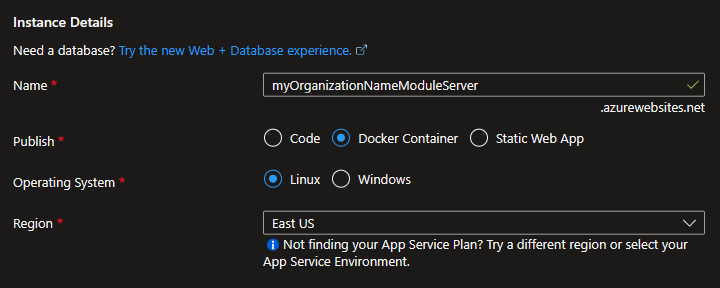
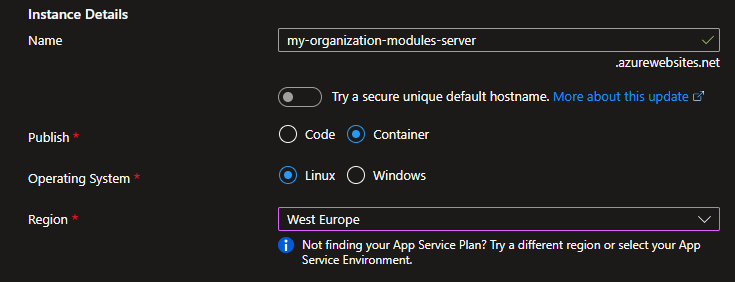
Update module server how-to

diff --git a/articles/tools/module-server/module-server.md b/articles/tools/module-server/module-server.md
@@ -72,49 +72,75 @@ Here is a simple guide on creating an Azure App Service which runs the Module Se
 
 ### Create the Azure resources
 
-1. Type **app services** in the search. Under **Services**, select **App Services**.
+- Type **app services** in the search. Under **Services**, select **App Services**.
+
   ![search box](images/search-box.png)
-1. In the **App Services** page, select **+ Create** and then select the **+ Web App** option.
+
+- In the **App Services** page, select **+ Create** and then select the **+ Web App** option.
+
   ![create web app](images/app-services-create-web-app.png)
-1. In the **Basics** tab, under **Project details**, ensure the correct subscription is selected and then select to Create new resource group. Type `intentArchitectModuleServerResourceGroup` for the name.
-  ![project details](images/project-details.png)
-1. Under **Instance details**, type a globally unique name for your web app and select **Docker Container**. Select *Linux* for the **Operating System**. Select a **Region** you want to serve your app from.
-  ![pricing plans](images/instance-details.png)
-1. Under **App Service Plan**, select **Create new** App Service Plan. Type `moduleServerAppServicePlan` for the name and choose a *Pricing plan*.
-  ![pricing plans](images/pricing-plans.png)
-1. Select the **Next: Docker** > button at the bottom of the page.
-1. In the **Docker** tab, select *Single Container* under **Options** and *Private Registry* for the **Image Source**. Under **Private registry options**, set the following values:
-   - **Server URL:** `https://crintentarchitectprodzanorth.azurecr.io`
-   - **Username:** `anonymous`
-   - **Password:** `1Ww/o4nfLPIKdComVBukyVGlmtWVgYm7MgfVPwwnfO+ACRAX3G9B`
-   - **Image and tag:** `intent-architect/module-server:latest`
-  ![Docker details](images/docker-details.png)
-1. Select the **Review + create** button at the bottom of the page.
-1. After validation runs, select the **Create** button at the bottom of the page.
-1. After deployment is complete, select **Go to resource**.
+
+- In the **Basics** tab, under **Project details**, ensure the correct subscription is selected and then select to Create new resource group. Type `intentArchitectModuleServerResourceGroup` for the name.
+
+  ![Project details](images/project-details.png)
+
+- Under **Instance details**, type a globally unique name for your web app and select **Container**. Select *Linux* for the **Operating System**. Select a **Region** you want to serve your app from.
+
+  ![Instance details](images/instance-details.png)
+
+- Under **App Service Plan**, select **Create new** App Service Plan. Type `moduleServerAppServicePlan` for the name and choose a *Pricing plan*.
+
+  ![Pricing plans](images/pricing-plans.png)
+
+- Select the **Container** tab at the top of the page.
+- For **Image Source** select *Other container registries*.
+- Under **Docker hub options**, set the following values:
+  - **Access type:** `Private`
+  - **Server URL:** `https://crintentarchitectprodzanorth.azurecr.io`
+  - **Username:** `anonymous`
+  - **Password:** `1Ww/o4nfLPIKdComVBukyVGlmtWVgYm7MgfVPwwnfO+ACRAX3G9B`
+  - **Image and tag:** `intent-architect/module-server:latest`
+  - **Port:** `8080`
+  - **Startup Command**: (blank / empty)
+
+  ![Container details](images/container-details.png)
+
+- Select the **Review + create** tab at the top of the page.
+- After validation runs, select the **Create** button at the bottom of the page.
+- After deployment is complete, select **Go to resource**.
 
 ### Set environment variables for the Docker image
 
-1. In the left pane, click on *Configuration*.
-  ![web app configuration pane](images/web-app-configuration.png)
-1. For each of the following press the **+ New application setting**, capture the **Name**, **Value** fields, leave the *Deployment slow setting* checkbox unchecked and press the **OK** button:
-   - [Microsoft SQL Server connection string](#connectionstrings__defaultconnection):
-     - **Name:** `ConnectionStrings__DefaultConnection`
-     - **Value:** (A valid SQL Server connection string)
-   - [API keys](#apikeys):
-     - **Name:** `ApiKeys`
-     - **Value:** (Semi-colon separated list of randomly generated API keys)
-   - [Azure Application Insights connection string](#applicationinsights_connection_string) (optional):
-     - **Name:** `APPLICATIONINSIGHTS_CONNECTION_STRING`
-     - **Value:** (A valid Azure Application Insights connection string)
+- In the left pane, under *Settings* click on *Environment variables*.
+- For each of the following press the **+ Add**, capture the **Name**, **Value** fields, leave the *Deployment slow setting* checkbox unchecked and press the **OK** button:
+  - [Microsoft SQL Server connection string](#connectionstrings__defaultconnection):
+    - **Name:** `ConnectionStrings__DefaultConnection`
+    - **Value:** (A valid SQL Server connection string)
+  - HTTP port to listen on (optional, depending on the configuration of your container host):
+    - **Name:** `ASPNETCORE_URLS`
+    - **Value:** `http://+:8080/` (this is its default value if unset)
+  - [API keys](#apikeys):
+    - **Name:** `ApiKeys`
+    - **Value:** (Semi-colon separated list of randomly generated API keys)
+  - [Azure Application Insights connection string](#applicationinsights_connection_string) (optional):
+    - **Name:** `APPLICATIONINSIGHTS_CONNECTION_STRING`
+    - **Value:** (A valid Azure Application Insights connection string)
   ![web app configuration pane (save)](images/web-app-configuration-save.png)
-1. Press the **💾 Save** button at the top of the pane.
+- Press the **💾 Save** button at the top of the pane.
 
 ## Configuring Intent Architect clients to be able to use the Module Server
 
 Intent Architect clients can use other Module Servers by entering their address into the **Address** field when [adding a repository](https://docs.intentarchitect.com/articles/application-development/applications-and-solutions/how-to-manage-repositories/how-to-manage-repositories.html).
 
 The value to enter **Address** is "base" URL for the website. For example if you had set up a [local instance](#running-locally) the address would be `http://localhost:33800/`, if you had [deployed it to Azure](#deploying-to-azure) then the address would be something like `https://myorganizationnamemoduleserver.azurewebsites.net/`.
+
+## FAQ
+
+### I'm getting a gateway error when attempting to visit the module server URL
+
+During set up of the container on Azure it by default fills in port `80` as the HTTP port to connect to, but the container is listening on `8080`, hence it being unable to connect to it.
+
+You [set the ASPNETCORE_URLS environment variable](#set-environment-variables-for-the-docker-image) to `http://+:80/` to have the container listen on port 80.
 
 ## SQL Server schema migration script
 
